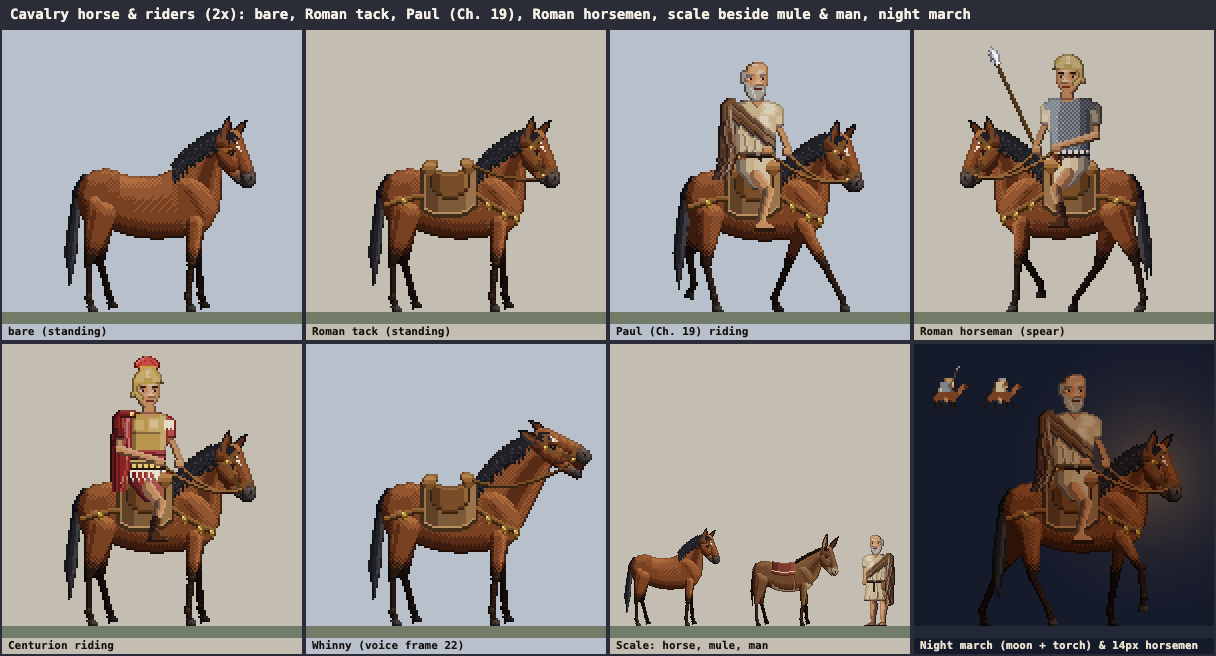
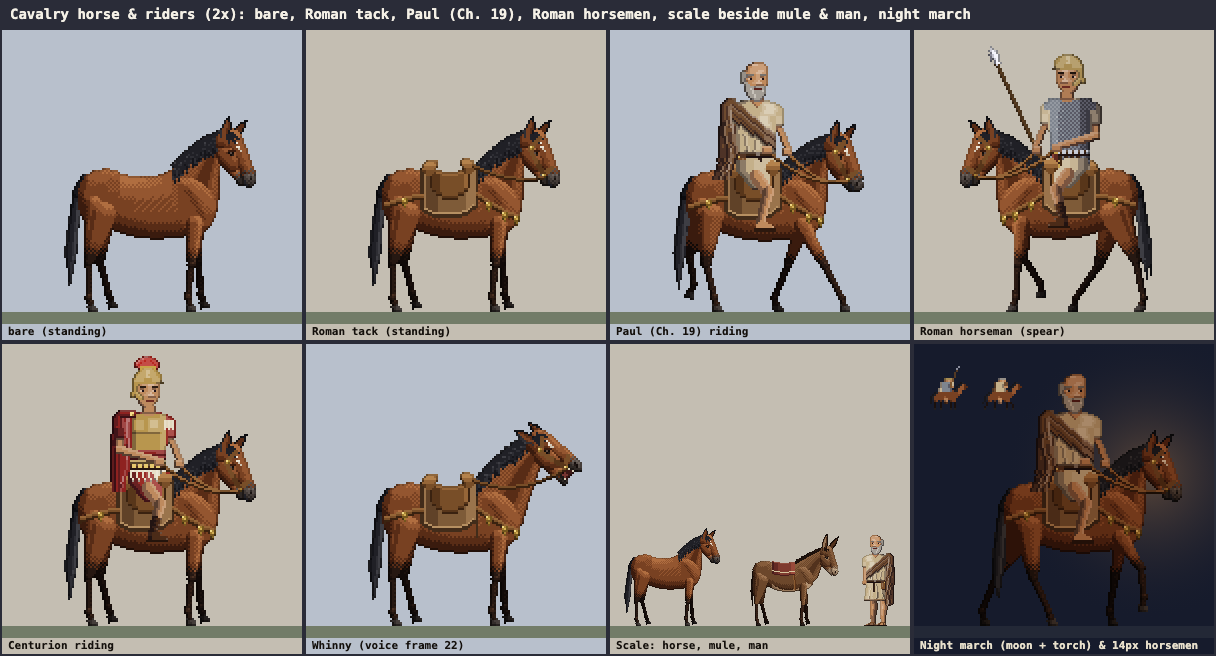
Refine horse whinny mouth, flared nostrils and lifted neck curve

diff --git a/shared/beasts.js b/shared/beasts.js
@@ -878,11 +878,11 @@ const HORSE=(()=>{
     BRASS=['#f0d884','#d2ae54','#a68232','#74561e','#483412'],
     BLAZE=['#ece4d4','#cfc4b2'],EYE='#120c0a',MOUTH='#3c1816',TEETH='#dcd2b8';
   const HEADS={
-    0:{px:37.5,py:-88.5,al:63,jaw:0,ear:0},
-    20:{px:38.5,py:-92.0,al:46,jaw:0,ear:.65},
-    21:{px:39.5,py:-93.5,al:30,jaw:16,ear:.95},
-    22:{px:40.5,py:-94.0,al:20,jaw:28,ear:1},
-    23:{px:39.0,py:-90.5,al:54,jaw:7,ear:.3}};
+    0:{px:37.5,py:-88.5,al:63,jaw:0,ear:0,flare:0},
+    20:{px:38.0,py:-91.5,al:48,jaw:0,ear:.55,flare:.4},
+    21:{px:38.5,py:-92.8,al:39,jaw:16,ear:.85,flare:.8},
+    22:{px:39.0,py:-93.6,al:33,jaw:25,ear:1,flare:1},
+    23:{px:38.2,py:-90.2,al:53,jaw:4,ear:.25,flare:1}};
   const FW=FIG.W,FH=FIG.H,X0=FIG.OX,Y0=FIG.OY;
   const SH=-25.5,SF=21.5;
   const atPose=(W,ph,off,st)=>{if(!W)return{hx:st,lift:0,bend:0};const p=((ph-off)%1+1)%1,T=HORSE_REACH,B=HORSE_STANCE;if(p<B)return{hx:T/2-T*p/B,lift:0,bend:0};
@@ -978,29 +978,37 @@ const HORSE=(()=>{
 
     leg(SH,at(0,-4.5),1,1);leg(SF,at(.25,-2.0),1,0);
 
-    /* the arched, muscular equine neck */
+    /* the arched, muscular equine neck: keeps full equine arch and smooth throatlatch as the head lifts to whinny */
     const HP=HEADS[fr>=20?Math.min(23,fr):0],a=(HP.al+hd*1.8)*Math.PI/180,ca=Math.cos(a),sa=Math.sin(a),PX=HP.px+hd*.4,PY=HP.py+o+hd,
-      Wp=(u,v)=>[PX+u*ca-v*sa,PY+u*sa+v*ca],hm=coat(0);
-    const c0=[10.5,-72.0+o],c2=Wp(-1.8,-1.0),c1=[c0[0]+(c2[0]-c0[0])*.42+1.2,c0[1]+(c2[1]-c0[1])*.58-6.0],t1=Wp(12.2,8.4),t0=[34.2,-51.0+o];
-    const crest=s=>[(1-s)*(1-s)*c0[0]+2*s*(1-s)*c1[0]+s*s*c2[0],(1-s)*(1-s)*c0[1]+2*s*(1-s)*c1[1]+s*s*c2[1]],poly=[];
-    for(let i=0;i<=16;i++)poly.push(crest(i/16));poly.push(Wp(8.5,2.4),t1,t0,[25.5,-43.0+o],[10,-54+o]);
+      Wp=(u,v)=>[PX+u*ca-v*sa,PY+u*sa+v*ca],hm=coat(0),lift=Math.max(0,(63-HP.al)/30);
+    const c0=[10.5,-72.0+o],c2=Wp(-1.0,-.9),arch=5.8-1.3*lift,
+      c1=[c0[0]+(c2[0]-c0[0])*.44+1.0-lift*.6,c0[1]+(c2[1]-c0[1])*.56-arch],
+      t1=Wp(10.0,8.2),t0=[33.4,-50.5+o],tm=[(t1[0]+t0[0])*.5-.6-lift*.4,(t1[1]+t0[1])*.5+.6];
+    const crest=s=>[(1-s)*(1-s)*c0[0]+2*s*(1-s)*c1[0]+s*s*c2[0],(1-s)*(1-s)*c0[1]+2*s*(1-s)*c1[1]+s*s*c2[1]],
+      throat=s=>[(1-s)*(1-s)*t1[0]+2*s*(1-s)*tm[0]+s*s*t0[0],(1-s)*(1-s)*t1[1]+2*s*(1-s)*tm[1]+s*s*t0[1]],
+      poly=[],thPts=[];
+    for(let i=0;i<=16;i++)poly.push(crest(i/16));
+    poly.push(Wp(8.5,2.4));
+    for(let i=0;i<=12;i++){const p=throat(i/12);thPts.push(p);poly.push(p)}
+    poly.push([25.5,-43.0+o],[10,-54+o]);
     {const inPoly=(x2,y2)=>{let c=false;for(let i=0,j=poly.length-1;i<poly.length;j=i++){const[xi,yi]=poly[i],[xj,yj]=poly[j];if((yi>y2)!==(yj>y2)&&x2<(xj-xi)*(y2-yi)/(yj-yi)+xi)c=!c}return c};
       const dSeg=(x2,y2,p,q)=>{const dx=q[0]-p[0],dy=q[1]-p[1],t=Math.max(0,Math.min(1,((x2-p[0])*dx+(y2-p[1])*dy)/(dx*dx+dy*dy))),ex=x2-p[0]-dx*t,ey=y2-p[1]-dy*t;return Math.hypot(ex,ey)};
       const ax=t0[0]-c0[0]*.5-c2[0]*.5,ay=t0[1]-c0[1]*.5-c2[1]*.5,al=Math.hypot(ax,ay),acx=ax/al,acy=ay/al;
       let x0=99,x1=-99,y0=99,y1=-99;for(const[p,q]of poly){x0=Math.min(x0,p);x1=Math.max(x1,p);y0=Math.min(y0,q);y1=Math.max(y1,q)}
       for(let py=Math.floor(y0);py<=y1;py++)for(let px=Math.floor(x0);px<=x1;px++){const X=px+.5,Y=py+.5;if(!inPoly(X,Y))continue;
-        let dc=1e9;for(let i=0;i<16;i++)dc=Math.min(dc,dSeg(X,Y,poly[i],poly[i+1]));const s=dc/(dc+dSeg(X,Y,t1,t0)),
-          th=(s*2-1)*1.22,nz=Math.cos(th),sn=Math.sin(th);
+        let dc=1e9,dt=1e9;for(let i=0;i<16;i++)dc=Math.min(dc,dSeg(X,Y,poly[i],poly[i+1]));
+        for(let i=0;i<12;i++)dt=Math.min(dt,dSeg(X,Y,thPts[i],thPts[i+1]));
+        const s=dc/(dc+dt),th=(s*2-1)*1.22,nz=Math.cos(th),sn=Math.sin(th);
         let b=tn(acx*sn*1.15,acy*sn*.32-.25*Math.max(0,-sn),nz,px,py);
         if(s<.18)b=Math.max(1,b-1);else if(s>.84&&s<.97)b=Math.max(1,b-1);else if(s>.52&&s<.76)b=Math.min(4,b+1);
         put(px,py,22,COAT[b],2)}}
 
-    /* the flowing dark mane: cascading locks along the crest of the arched neck */
-    for(let i=0;i<=86;i++){const s=.02+i/86*.96,[mx,my]=crest(s),[nx2,ny2]=crest(Math.min(1,s+.02)),dx=nx2-mx,dy=ny2-my,l=Math.hypot(dx,dy)||1,ox=dy/l,oy=-dx/l;
-      const hUp=1.3+(((i*11)%7)<2?.45:0);
+    /* the flowing dark mane: cascading locks along the crest seamlessly into the poll */
+    for(let i=0;i<=88;i++){const s=.02+i/88*.98,[mx,my]=crest(s),[nx2,ny2]=crest(Math.min(1,s+.02)),dx=nx2-mx,dy=ny2-my,l=Math.hypot(dx,dy)||1,ox=dy/l,oy=-dx/l;
+      const hUp=(1.2-lift*.15)+(((i*11)%7)<2?.45:0);
       for(let j=-.5;j<=hUp;j+=.5)put(mx+ox*j,my+oy*j,40,j>hUp-.55&&((i*5)%7)<2?HAIR[0]:HAIR[2],8);
-      const lock=(i*7)%11,drop=(s<.12?2.8+s*44:s>.88?2.8+(1-s)*38:8.6)+Math.sin(i*.9)*2.2+(lock<3?1.8:0);
-      for(let dy2=0;dy2<=drop;dy2+=.65){const u2=dy2/Math.max(1,drop),lx=mx+ox*(-.4)-dy2*.22,ly=my+oy*(-.4)+dy2;
+      const lock=(i*7)%11,drop=(s<.12?2.8+s*44:s>.88?2.6+(1-s)*36:8.2-lift*.5)+Math.sin(i*.9)*2.0+(lock<3?1.6:0);
+      for(let dy2=0;dy2<=drop;dy2+=.65){const u2=dy2/Math.max(1,drop),lx=mx+ox*(-.4)-dy2*(.22+lift*.10),ly=my+oy*(-.4)+dy2;
         if(u2>.82&&lock>6)continue;
         put(lx,ly,38,u2<.25&&((i*3)%5===0)?HAIR[0]:((i+Math.floor(dy2))%4===0)?HAIR[1]:u2>.75?HAIR[3]:HAIR[2],8)}}
 
@@ -1013,16 +1021,28 @@ const HORSE=(()=>{
       return MUZ[Math.max(0,Math.min(4,b))]};
     {const[c0x,c0y]=Wp(3.0,.5);ell(c0x,c0y,44,6.0,6.8,6.4,a,hm,3)}
     {const[c0x,c0y]=Wp(10.8,4.2);ell(c0x,c0y,45,7.9,5.8,5.6,a,(nx,ny,nz,px,py)=>{const b=tn(nx,ny,nz,px,py);return lv(px,py)>8.2?COAT[Math.min(4,b+1)]:COAT[b]},3)}
-    {const[ax0,ay0]=Wp(4.2,-2.0),[bx0,by0]=Wp(22.0,-.9);cap(ax0,ay0,4.5,bx0,by0,3.4,46,headMat,3)}
-    {const[c0x,c0y]=Wp(24.6,.6);ell(c0x,c0y,46.5,4.4,4.0,4.0,a,headMat,3)}
-    const ja=HP.jaw*Math.PI/180,hu=11.8,hv=7.0,rot=(u,v)=>[hu+(u-hu)*Math.cos(ja)-(v-hv)*Math.sin(ja),hv+(u-hu)*Math.sin(ja)+(v-hv)*Math.cos(ja)],Wr=(u,v)=>Wp(...rot(u,v));
-    {const[h0,h1]=Wp(hu,hv),[m0,m1]=Wr(22.8,4.5);cap(h0,h1,3.6,m0,m1,2.4,44.5,headMat,3);
-      const[c0x,c0y]=Wr(24.6,3.8);ell(c0x,c0y,45.2,2.9,2.2,2.3,a+ja,(nx,ny,nz,px,py)=>MUZ[Math.min(4,tn(nx,ny,nz,px,py)+1)],3)}
-    if(HP.jaw){
-      const Q=[Wp(17.5,4.2),Wp(28.0,2.2),Wr(26.6,3.2),Wr(17.5,4.6)];let x0=99,x1=-99,y0=99,y1=-99;for(const[p,q]of Q){x0=Math.min(x0,p);x1=Math.max(x1,p);y0=Math.min(y0,q);y1=Math.max(y1,q)}
-      for(let py=Math.floor(y0);py<=y1;py++)for(let px=Math.floor(x0);px<=x1;px++){let c=false;for(let i=0,j=3;i<4;j=i++){const[xi,yi]=Q[i],[xj,yj]=Q[j];if(yi>py+.5!==yj>py+.5&&px+.5<(xj-xi)*(py+.5-yi)/(yj-yi)+xi)c=!c}if(c)put(px,py,43.5,MOUTH,3)}
-      const tooth=(p,q,c)=>{const i=idx(Math.floor(p),Math.floor(q));if(i>=0&&Cb[i]===MOUTH)Cb[i]=c};
-      for(let u=20;u<=26.6;u+=.5){const[p,q]=Wp(u,3.6-(u-19)*.12);tooth(p,q,TEETH);const[r,s]=Wr(u,3.0);tooth(r,s,'#c4b89e')}}
+    {const[ax0,ay0]=Wp(4.2,-2.0),[bx0,by0]=Wp(22.0,-1.0);cap(ax0,ay0,4.5,bx0,by0,HP.jaw>=10?3.1:3.4,46,headMat,3)}
+    {const[c0x,c0y]=Wp(24.6,HP.jaw>=10?.1:.6);ell(c0x,c0y,46.5,4.2,HP.jaw>=10?3.1:3.9,3.9,a,headMat,3)}
+    const ja=HP.jaw*Math.PI/180,hu=12.4,hv=6.4,rot=(u,v)=>[hu+(u-hu)*Math.cos(ja)-(v-hv)*Math.sin(ja),hv+(u-hu)*Math.sin(ja)+(v-hv)*Math.cos(ja)],Wr=(u,v)=>Wp(...rot(u,v));
+    {const[h0,h1]=Wp(hu,hv),[m0,m1]=Wr(22.4,4.5);cap(h0,h1,3.5,m0,m1,2.2,44.5,headMat,3);
+      const[c0x,c0y]=Wr(24.0,4.4);ell(c0x,c0y,45.6,2.8,2.1,2.2,a+ja,(nx,ny,nz,px,py)=>MUZ[Math.min(4,tn(nx,ny,nz,px,py)+1)],3)}
+    if(HP.jaw>=10){
+      /* open equine mouth strictly forward of the lip corner/bit (u >= 20.0): dark mouth interior, subtle tongue, neat front incisors */
+      const Q=[Wp(20.0,3.1),Wp(26.4,2.3),Wr(24.8,3.6),Wr(20.0,4.3)];
+      let x0=99,x1=-99,y0=99,y1=-99;for(const[p,q]of Q){x0=Math.min(x0,p);x1=Math.max(x1,p);y0=Math.min(y0,q);y1=Math.max(y1,q)}
+      for(let py=Math.floor(y0);py<=y1;py++)for(let px=Math.floor(x0);px<=x1;px++){let c=false;
+        for(let i=0,j=3;i<4;j=i++){const[xi,yi]=Q[i],[xj,yj]=Q[j];if(yi>py+.5!==yj>py+.5&&px+.5<(xj-xi)*(py+.5-yi)/(yj-yi)+xi)c=!c}
+        if(!c)continue;
+        const u=lu(px,py),v=lv(px,py),col=u<21.8?'#200a0a':v>5.4&&u<24.2?'#763430':MOUTH;
+        put(px,py,48.5,col,3)}
+      /* neat upper and lower incisor teeth tucked inside the front lips */
+      for(let u=23.2;u<=25.8;u+=.5){const[p,q]=Wp(u,2.7);put(p,q,49.2,TEETH,3)}
+      for(let u=22.6;u<=24.6;u+=.5){const[r,s]=Wr(u,3.4);put(r,s,49.2,'#d4cab0',3)}
+      /* crisp dark lip rim framing the upper and lower lips */
+      for(let u=20.2;u<=26.4;u+=.5){const[p,q]=Wp(u,2.1);put(p,q,49.4,MUZ[4],3);const[r,s]=Wr(u,4.0);if(u<=24.8)put(r,s,49.4,MUZ[4],3)}}
+    else if(HP.jaw>0){
+      /* slight parted mouth for the concluding snort (frame 23) */
+      for(let u=21.0;u<=26.2;u+=.5){const[p,q]=Wp(u,2.9);put(p,q,48.5,'#261010',3);const[r,s]=Wr(u,3.5);put(r,s,48.5,MUZ[4],3)}}
 
     /* short pointed equine ears (distinctly shorter than the mule's) + dark forelock */
     const ear=(bx0,by0,ang,len,near)=>{const ex=Math.cos(ang),ey=Math.sin(ang),bx=bx0-ex*1.5,by=by0-ey*1.5,L=len+1.5,R=L+3;
@@ -1037,14 +1057,17 @@ const HORSE=(()=>{
     /* forelock tuft between ears */
     for(const[u,v,du,dv]of[[.4,-2.6,4.0,-1.8],[.8,-1.3,4.6,-.6],[.2,-.2,3.6,.8]]){const[r0,r1]=Wp(u,v),[e0,e1]=Wp(u+du,v+dv);cap(r0,r1,1.0,e0,e1,.68,58,()=>HAIR[2],8)}
 
-    /* forehead blaze, bright dark almond eye, dark nostril and closed mouth line */
+    /* forehead blaze, bright dark almond eye, flared/resting nostril and closed mouth line */
     for(const[u,v,c]of[[6.4,-2.8,BLAZE[0]],[7.6,-2.6,BLAZE[0]],[8.8,-2.4,BLAZE[1]],[10.0,-2.2,BLAZE[1]],[8.0,-1.8,BLAZE[0]],[9.2,-1.6,BLAZE[1]]]){
       const[p,q]=Wp(u,v);if(partAt(p,q)===3)set(p,q,c)}
     {const[e0,e1]=Wp(8.8,2.0),X=Math.floor(e0),Y=Math.floor(e1),sh=(x2,y2,c)=>{if(partAt(x2,y2)===3)set(x2,y2,c)};
       for(const dx of[-1,0,1,2])sh(X+dx,Y-1,COAT[4]);
       sh(X-2,Y,COAT[3]);sh(X+2,Y,COAT[1]);
       for(const dx of[-1,0,1])sh(X+dx,Y,EYE);sh(X,Y,'#5e4c42');sh(X,Y+1,EYE);sh(X+1,Y+1,'#2a1e18');sh(X-1,Y+1,COAT[2]);sh(X,Y+2,COAT[2])}
-    for(const[u,v,c]of[[24.2,-1.2,MUZ[3]],[24.9,-.5,'#181210'],[25.5,.2,'#181210'],[25.4,.9,MUZ[3]]]){const[n0,n1]=Wp(u,v);if(partAt(n0,n1)===3)set(n0,n1,c)}
+    if(HP.flare>=.7){
+      for(const[u,v,c]of[[23.6,-1.6,MUZ[1]],[24.6,-1.4,MUZ[1]],[24.0,-.8,'#140d0c'],[24.8,-.6,'#140d0c'],[25.6,-.2,'#140d0c'],[24.4,.2,'#221816'],[25.2,.5,MUZ[3]]]){
+        const[n0,n1]=Wp(u,v);if(partAt(n0,n1)===3)set(n0,n1,c)}}
+    else for(const[u,v,c]of[[24.2,-1.2,MUZ[3]],[24.9,-.5,'#181210'],[25.5,.2,'#181210'],[25.4,.9,MUZ[3]]]){const[n0,n1]=Wp(u,v);if(partAt(n0,n1)===3)set(n0,n1,c)}
     if(!HP.jaw)for(let u=21.5;u<=27.6;u+=.5){const[p,q]=Wp(u,2.9);if(partAt(p,q)===3)set(p,q,u>24.4?HAIR[2]:MUZ[4])}
 
     const topAt=X=>{let Y=-Y0;while(Y<0&&![1,2].includes(partAt(X,Y)))Y++;return Y},botAt=X=>{let Y=-1;while(Y>-Y0&&partAt(X,Y)!==1)Y--;return Y};
